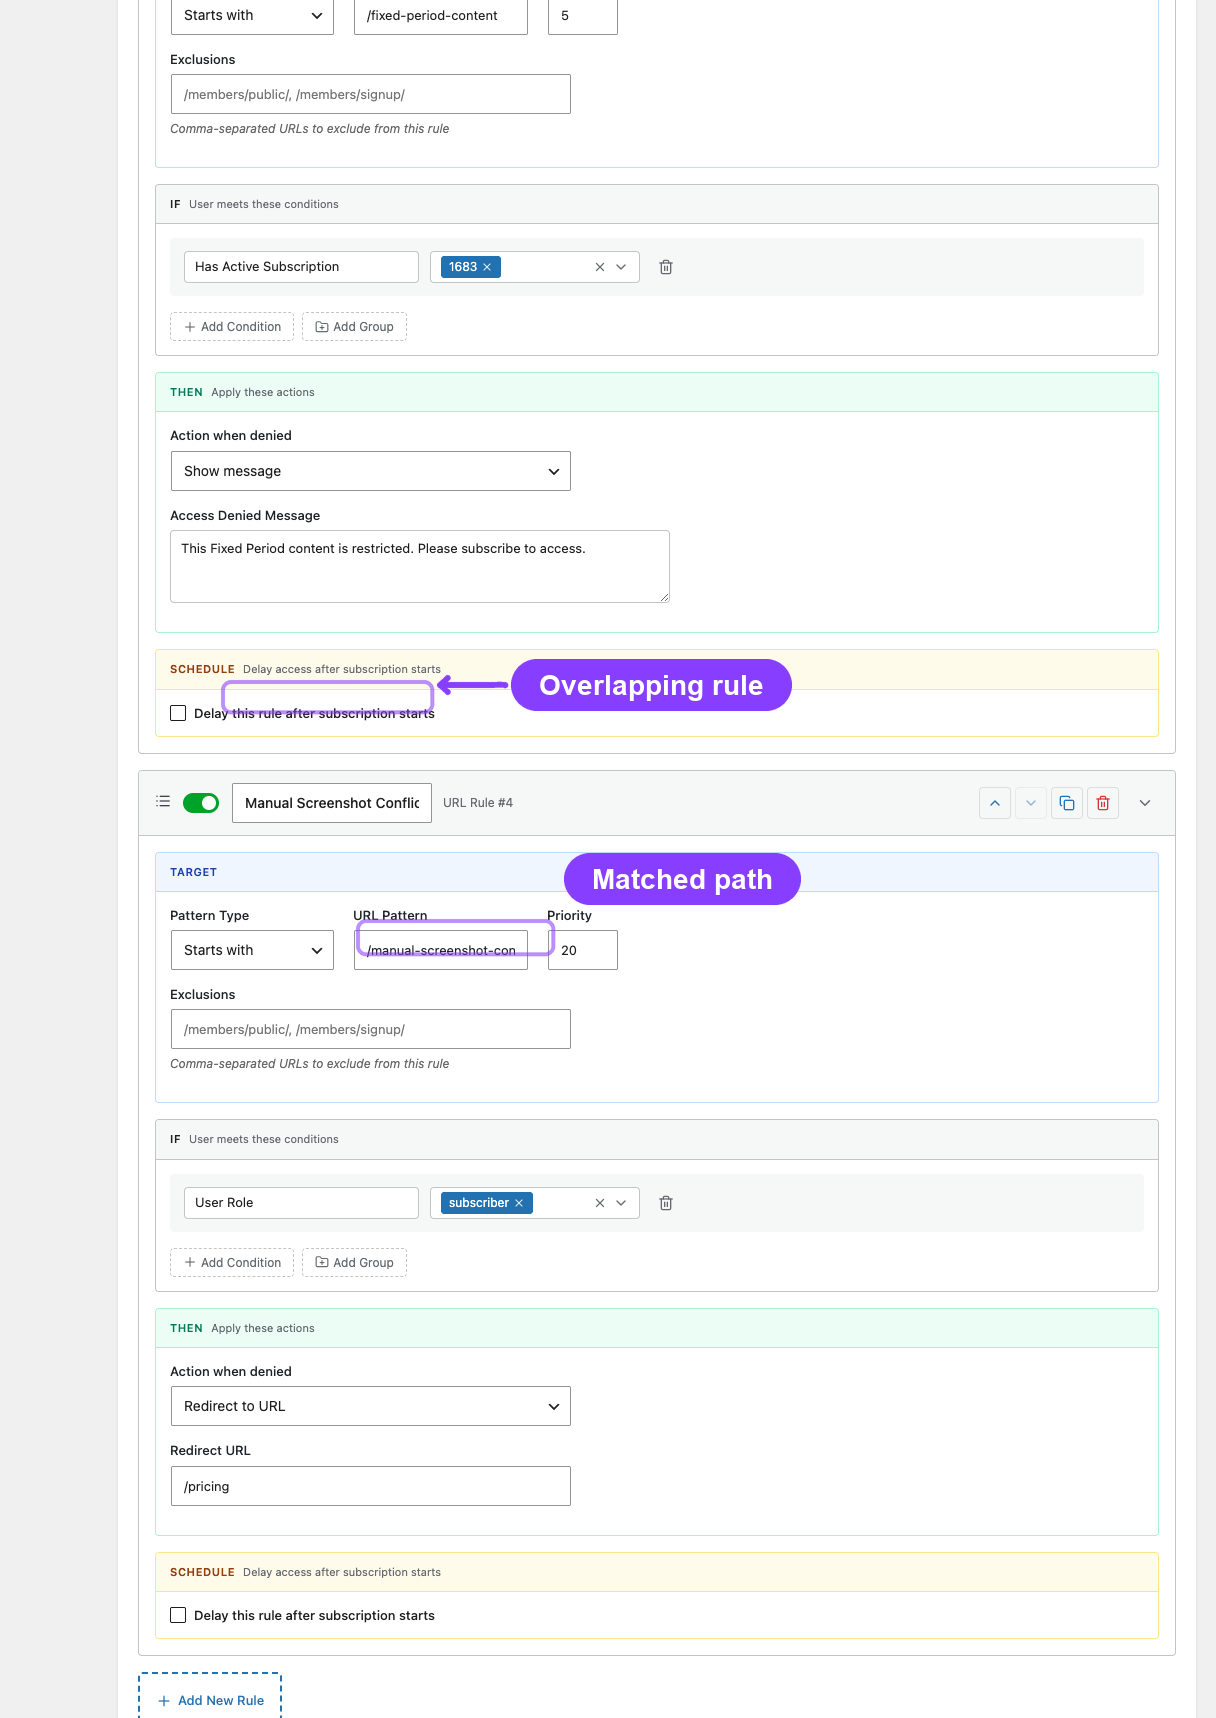
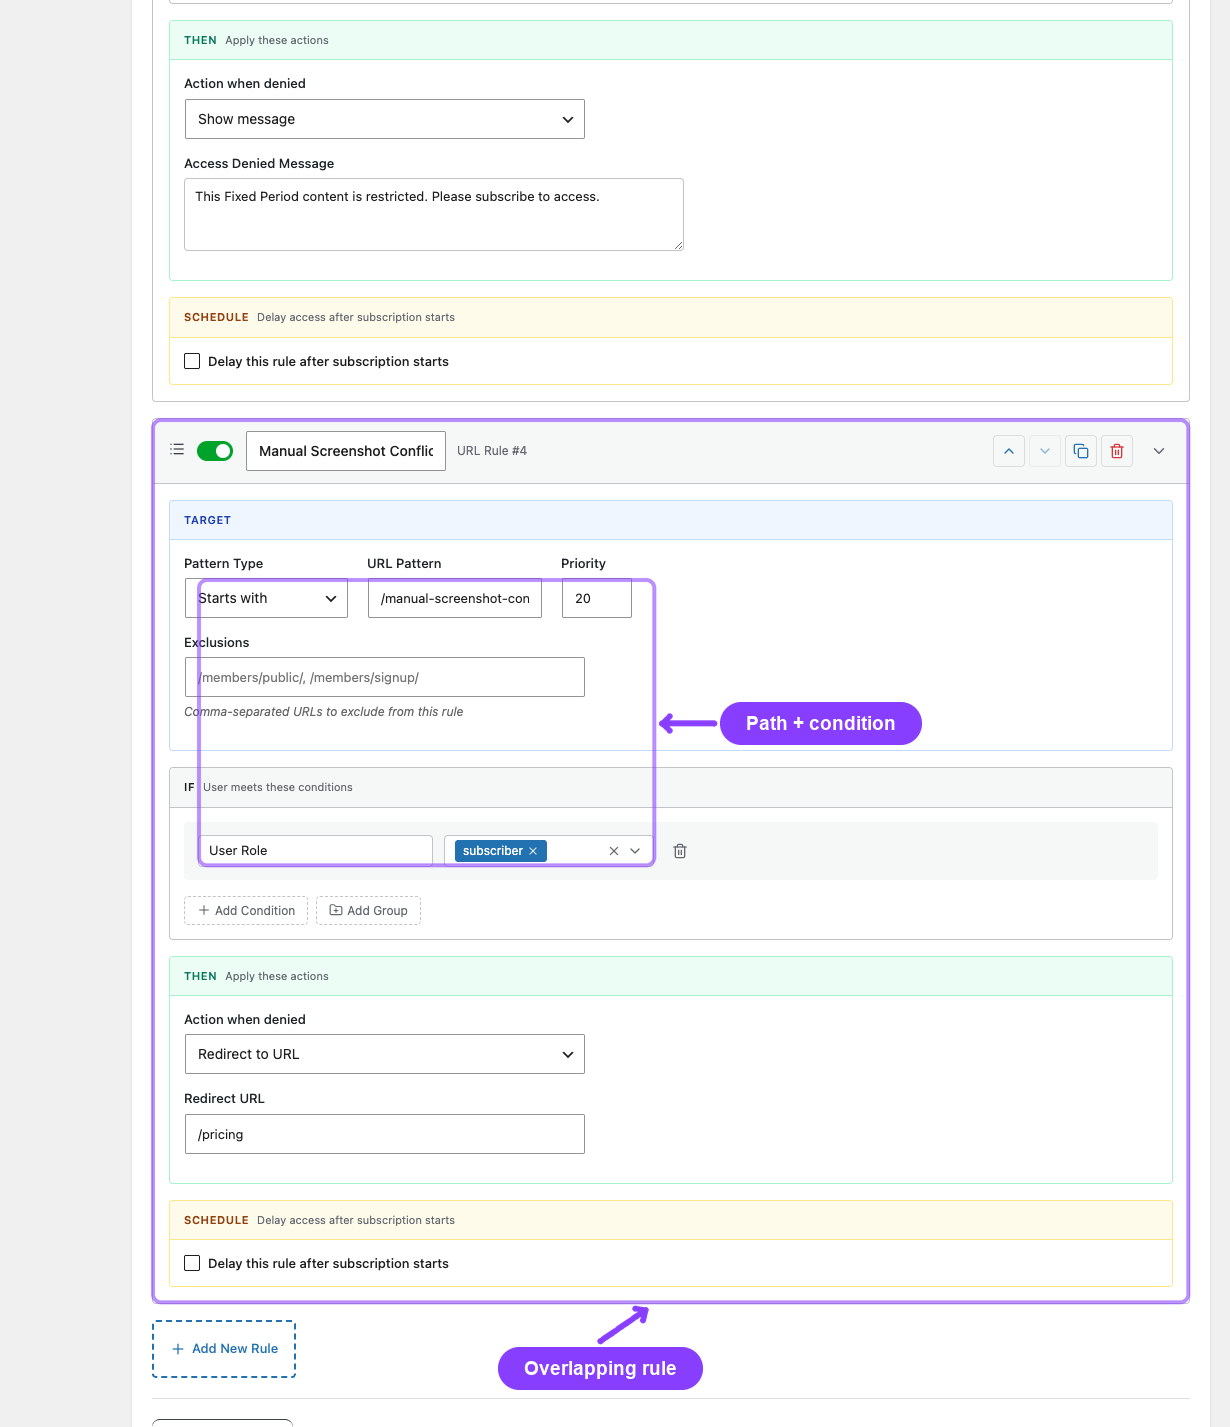
//

Changed region(s): [[0.0938, 0.0, 0.9688, 1.0], [0.4375, 0.8017, 0.4688, 0.8325]]

diff --git a/kanban/tasks/009-audits-and-logs-access-rule-conflicts-md.md b/kanban/tasks/009-audits-and-logs-access-rule-conflicts-md.md
@@ -4,11 +4,11 @@ title: audits-and-logs - access-rule-conflicts.md
 status: done
 priority: medium
 created: 2026-06-09T18:08:34.449488+06:00
-updated: 2026-06-23T18:32:34.731608+06:00
+updated: 2026-06-24T13:29:39.208179+06:00
 started: 2026-06-18T10:58:42.845034027+02:00
-completed: 2026-06-23T18:32:34.731608+06:00
-claimed_by: hobbler-beswitch
-claimed_at: 2026-06-23T18:32:34.731608+06:00
+completed: 2026-06-24T13:29:39.208179+06:00
+claimed_by: codex
+claimed_at: 2026-06-24T13:29:39.208179+06:00
 class: standard
 ---
 
@@ -49,3 +49,15 @@ Annotation notes (2026-06-23):
 - Used essential labels only: two labels per image.
 - Generated access-rule-conflicts.ASSETS/01-conflict-detector-overview-annotated.png, 02-url-rule-overlap-annotated.png, and 03-disable-rule-confirmation-annotated.png.
 - Verification: 6 labels resolved, 0 unresolved.
+
+Annotation rerun notes (2026-06-24):
+- Deleted existing annotated outputs before regeneration and preserved the original screenshots.
+- Regenerated access-rule-conflicts.ASSETS/01-conflict-detector-overview-annotated.png, 02-url-rule-overlap-annotated.png, and 03-disable-rule-confirmation-annotated.png from clean originals.
+- Reused the existing source markdown links in markdowns/audits-and-logs/access-rule-conflicts.md without duplicates.
+- Annotation settings used: #873EFF, --crop, --steps=3.
+- Reduced the query set to two non-obvious labels per image; skipped the URL tab/UI chrome label.
+- Verification: 6 labels resolved, 0 unresolved.
+
+Audit guide follow-up (2026-06-24):
+- Removed the 02-url-rule-overlap screenshot from markdowns/audits-and-logs/access-rule-conflicts.md because it shows the Member Access URL Rules settings screen, not the Access-Rule Conflicts audit surface.
+- Updated the Scenario 3 copy to match the plugin implementation: the audit detects URL rules that overlap higher-priority per-post restrictions.

diff --git a/markdowns/audits-and-logs/access-rule-conflicts.md b/markdowns/audits-and-logs/access-rule-conflicts.md
@@ -1,7 +1,7 @@
 # Info
 - Module: Audits and Logs
 - Availability: Free + Pro
-- Last updated: 2026-06-04
+- Last updated: 2026-06-24
 
 # Access-Rule Conflicts
 
@@ -78,15 +78,13 @@ Rules can also be nested into **groups**, where each group has its own AND/OR lo
 
 **Fix:** This is expected. If you want guests to see certain content, use the `[arraysubs_visibility]` shortcode with `logged_out="true"` instead of access rules, or create a separate rule that does not depend on subscription conditions.
 
-### Scenario 3: Overlapping URL Rules
+### Scenario 3: URL Rule Overlaps a Per-Post Restriction
 
-**Problem:** Two URL rules apply to the same page — one grants access and one denies it.
+**Problem:** A URL rule protects a path, but the target page or post also has its own per-post access restriction.
 
-![Overlapping URL rules in the conflict detector](access-rule-conflicts.ASSETS/02-url-rule-overlap-annotated.png)
+**Why it happens:** Per-post restrictions are more specific than URL pattern rules, so the per-post rule wins when both apply to the same content. The Access-Rule Conflicts audit highlights these overlaps so you can compare the broad URL rule with the higher-priority per-post restriction.
 
-**Why it happens:** URL rules are evaluated in order. If a more restrictive rule matches first, it blocks access before a more permissive rule is evaluated.
-
-**Fix:** Review the URL Rules list in **ArraySubs → Member Access → URL Rules**. Reorder rules so the most specific rules come first. A more specific URL pattern should override a broader pattern.
+**Fix:** Open **ArraySubs → Audits [beta] → Access-Rule Conflicts** and compare the URL Rule panel with the Per-post Rule panel. If the per-post restriction is intentional, leave it in place. If the URL rule should control the page instead, remove or adjust the per-post restriction, or disable the overlapping URL rule from the audit resolution action.
 
 ### Scenario 4: Post-Level Override vs. Global Rule
 
@@ -150,7 +148,7 @@ Walk through each condition in the rule with the user's data:
 
 ### Step 4: Check for Overlapping Rules
 
-If the targeted content is protected by multiple rules (URL rules, post-type rules, per-post rules), check all of them. The most specific rule wins.
+If the targeted content is protected by multiple rules (URL rules, post-type rules, per-post rules), check all of them. The most specific rule wins. The Access-Rule Conflicts audit currently focuses on URL rules that overlap per-post overrides.
 
 ![Disable rule confirmation from the conflict workflow](access-rule-conflicts.ASSETS/03-disable-rule-confirmation-annotated.png)
 